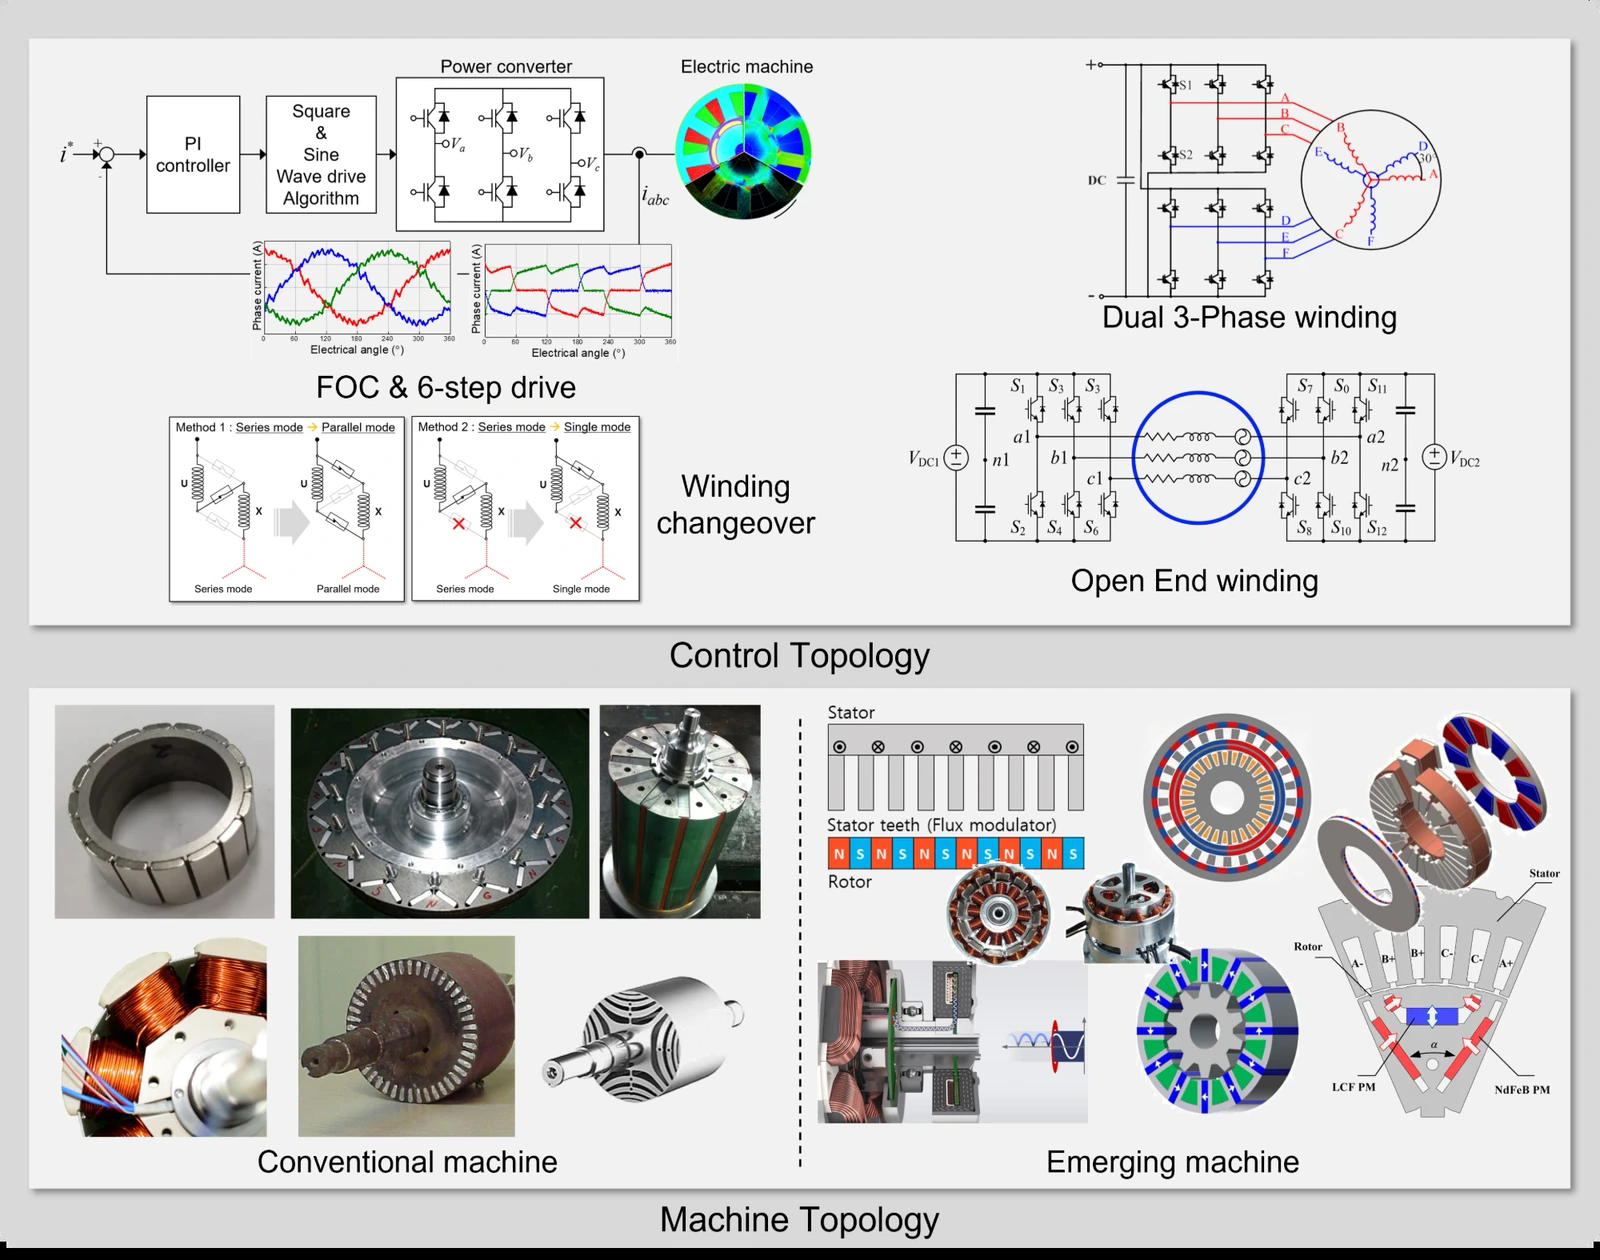
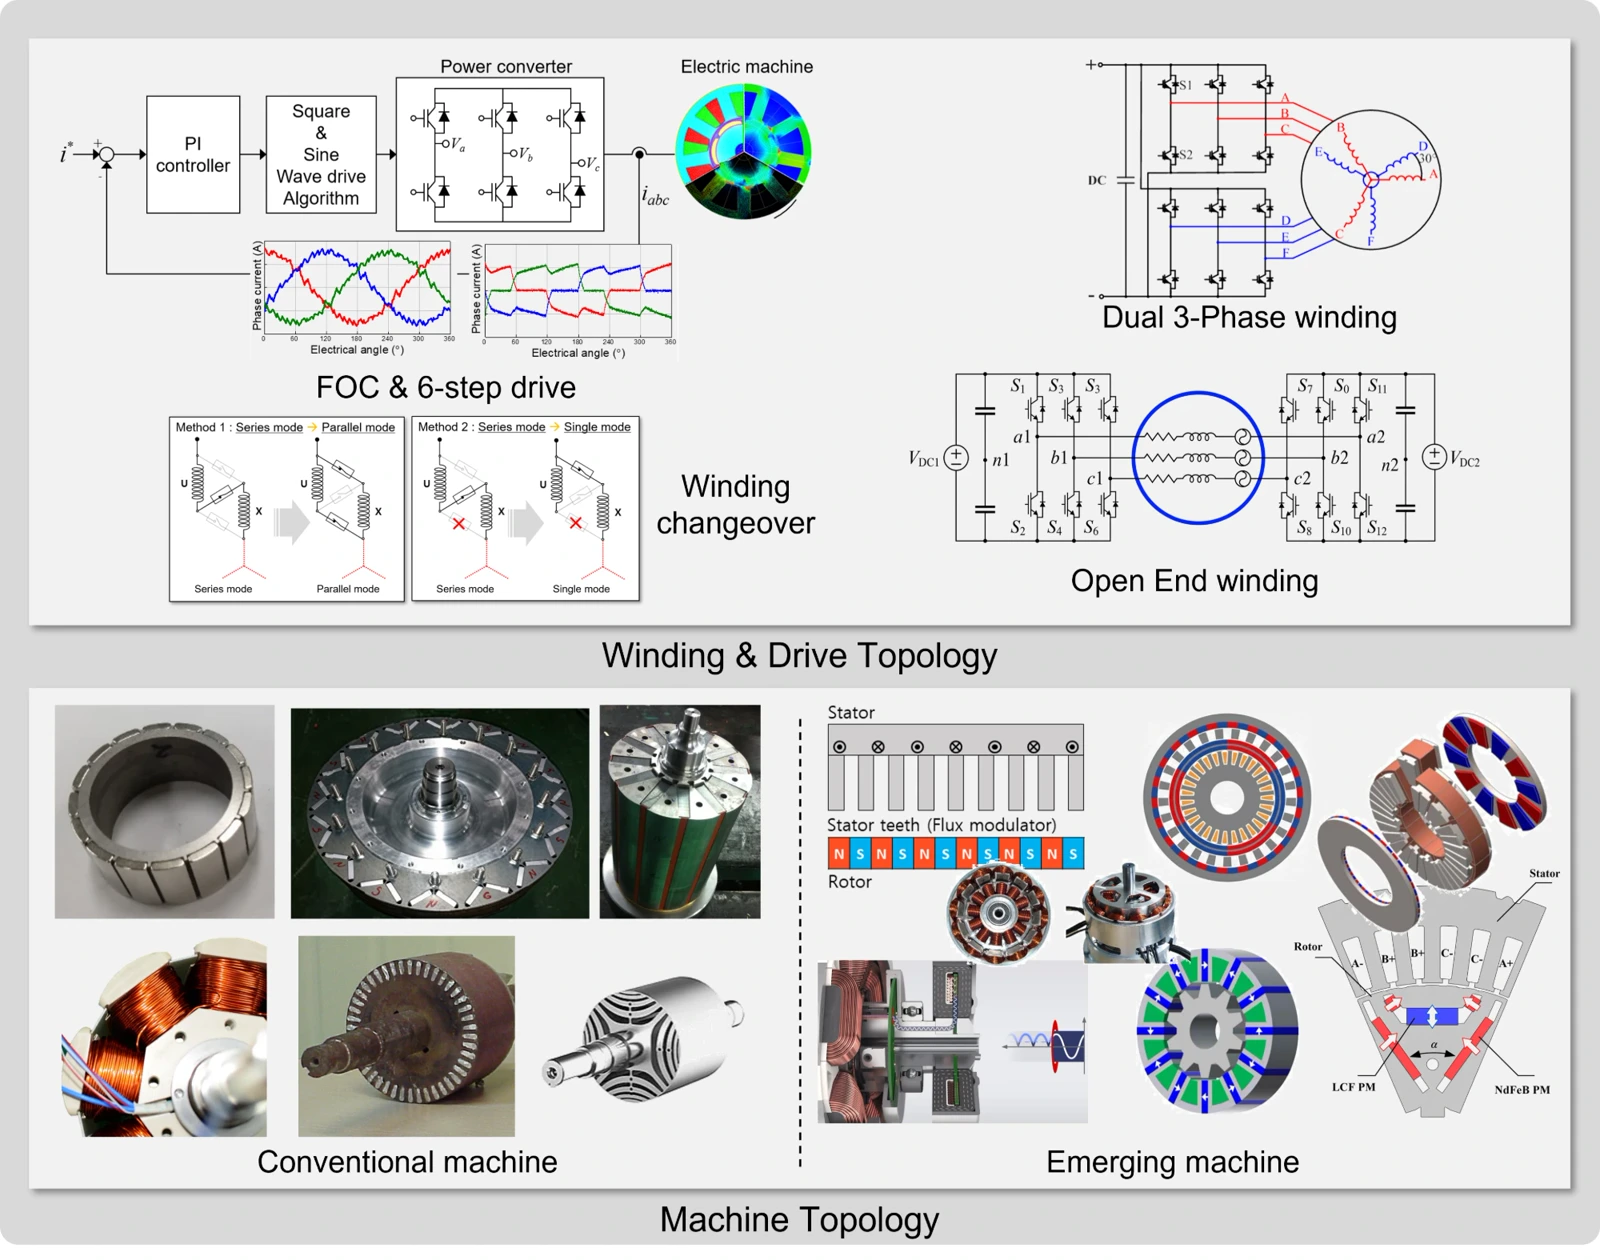
연구분야 3 세부그림 1 교체 — Control Topology 를 Winding & Drive Topology 로
그림의 절 이름이 바뀌어 합친 라벨에도 Drive 를 되살렸다.
짝 그림과 같은 1600x1260 (원본 비율이 같아 덧댈 필요 없음).

Changed region(s): [[0.0, 0.9595, 1.0, 1.0], [0.375, 0.4952, 0.625, 0.5571]]

diff --git a/data/research.js b/data/research.js
@@ -76,7 +76,7 @@ const RESEARCH = [
       "제조 기술 (헤어핀 권선 · 분할코어 · 접착 · 용접 · 포팅)",
       "재료 기술 (이상 전기강판 · SMC · 본드자석 · 희토류 프리 자석)"
     ],
-    description: "Design Process : 요구 토크-출력-속도 곡선과 기계적·전기적 제약으로부터 극·슬롯 조합, 2차원 형상, 축장, 전기자 권선 턴수의 순차 결정 및 특성 해석에 의한 성능 검증\nMachine & Winding Topology : 통상형 기기(SPMSM·IPMSM·유도기·릴럭턴스기)부터 신개념 기기(이중회전자, 가변자속, 자기기어, 버니어, BL-WFSM)까지의 형상 검토 및 개방권선·이중 3상 권선·권선 절체를 통한 운전 영역 확장\nManufacturing & Material Technology : 헤어핀 권선, 분할·접착·용접 코어, 포팅 등 제조 기술과 이상 전기강판, 연자성 복합재(SMC), 본드자석, 희토류 프리 자석 등 재료 기술의 설계 변수화",
+    description: "Design Process : 요구 토크-출력-속도 곡선과 기계적·전기적 제약으로부터 극·슬롯 조합, 2차원 형상, 축장, 전기자 권선 턴수의 순차 결정 및 특성 해석에 의한 성능 검증\nMachine, Winding & Drive Topology : 통상형 기기(SPMSM·IPMSM·유도기·릴럭턴스기)부터 신개념 기기(이중회전자, 가변자속, 자기기어, 버니어, BL-WFSM)까지의 형상 검토 및 개방권선·이중 3상 권선·권선 절체를 통한 운전 영역 확장\nManufacturing & Material Technology : 헤어핀 권선, 분할·접착·용접 코어, 포팅 등 제조 기술과 이상 전기강판, 연자성 복합재(SMC), 본드자석, 희토류 프리 자석 등 재료 기술의 설계 변수화",
     image: "images/research/design-overview.webp",
     images: [
       { src: "images/research/design-topology.webp",
